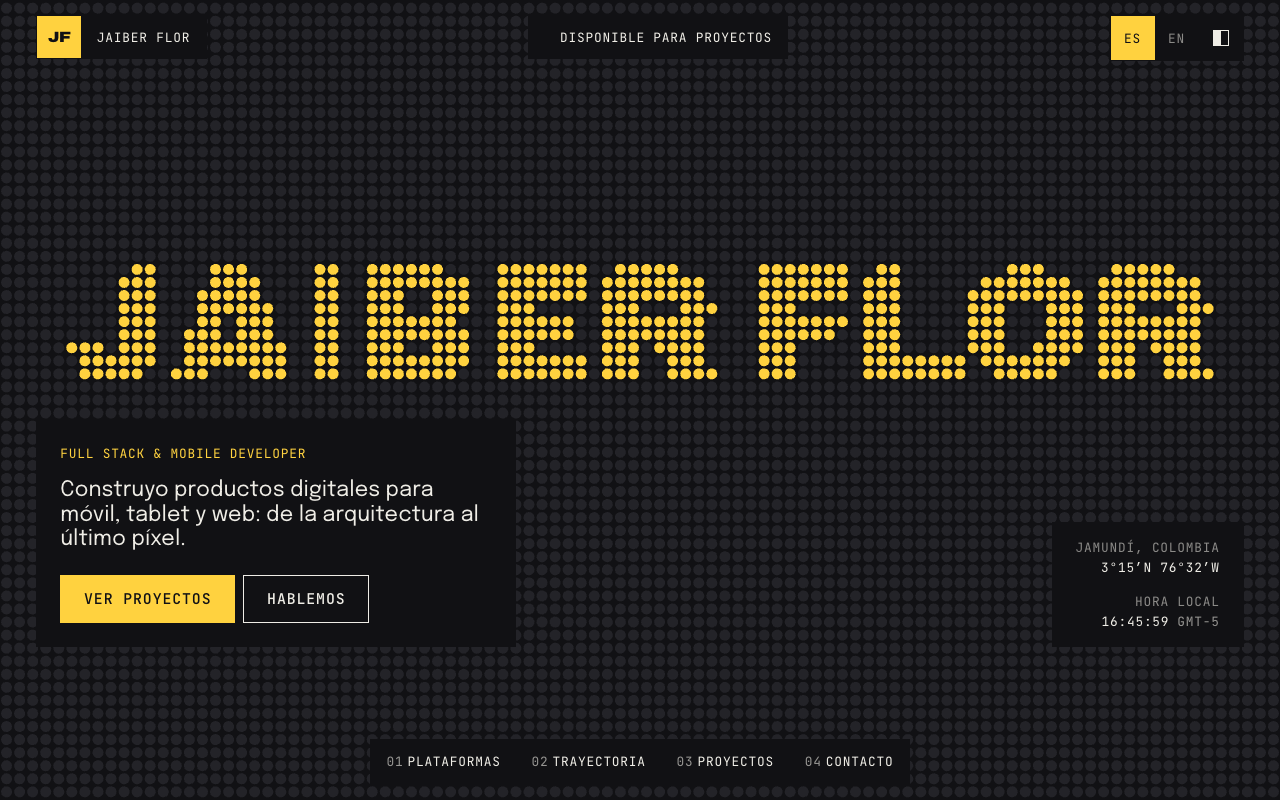
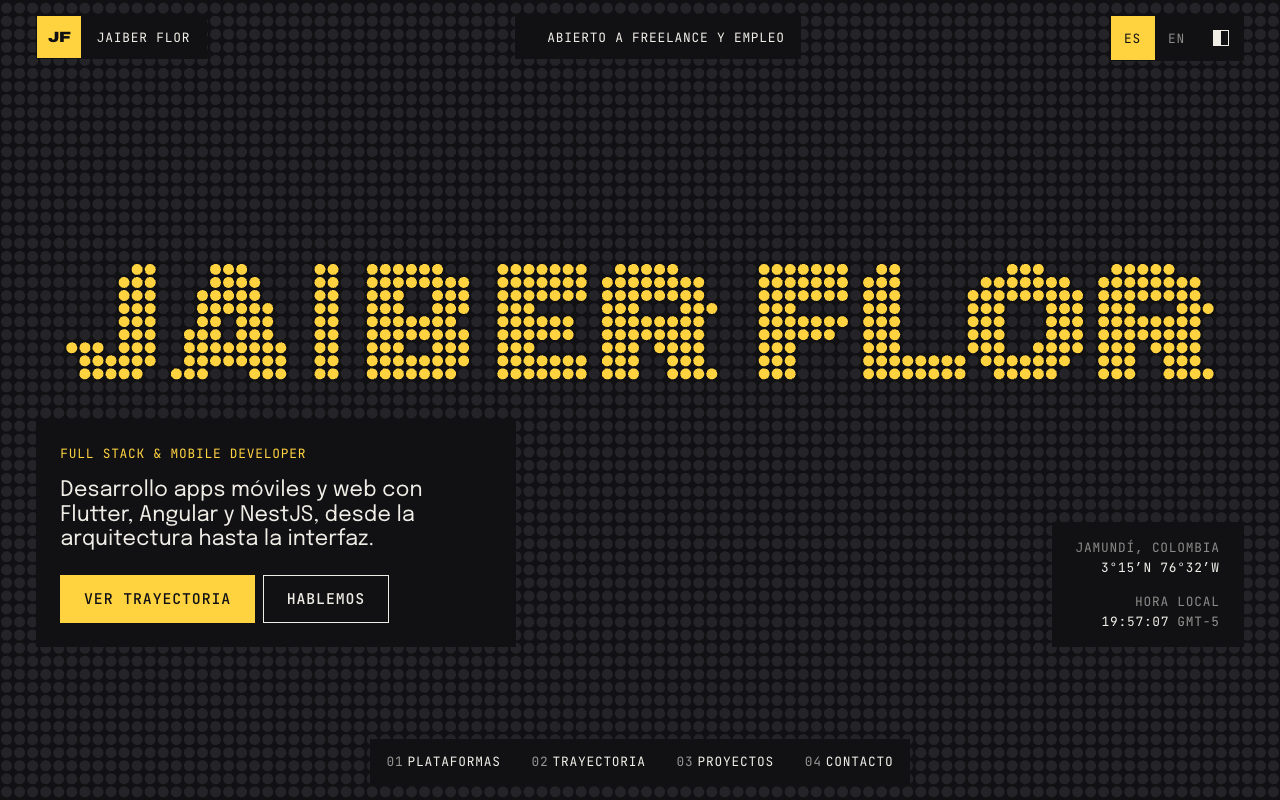
copy: revisión de textos con la skill copy-editing
- Hero, manifiesto, plataformas, trayectoria y contacto reescritos: sin rayas
  ni dos puntos dramáticos, frases de menos de 25 palabras y voz en primera
  persona en todas las tarjetas.
- Posicionamiento en banca y startups, con el sector educativo como origen;
  meta descripción con más de 5 años de experiencia.
- El botón principal del hero lleva a la trayectoria; textos del loader
  acordes al concepto de aeropuerto.
- Proyecto "Este portafolio" con nueva descripción y captura actualizada.

diff --git a/src/i18n/dictionaries/es.ts b/src/i18n/dictionaries/es.ts
@@ -3,7 +3,7 @@ const es = {
   meta: {
     title: 'Jaiber Flor — Full Stack & Mobile Developer',
     description:
-      'Portafolio de Jaiber Flor, desarrollador Full Stack y Mobile en Colombia. Flutter, Angular, NestJS y TypeScript.',
+      'Portafolio de Jaiber Flor, desarrollador Full Stack y Mobile en Colombia con más de 5 años de experiencia en banca, startups y el sector educativo. Flutter, Angular, NestJS y TypeScript.',
   },
   a11y: {
     skipToContent: 'Saltar al contenido',
@@ -31,22 +31,22 @@ const es = {
       'flutter build ios android web',
       'nestjs api ··· ok',
       'angular ··· ok',
-      'calibrando partículas',
-      'señal estable',
+      'calibrando tablero',
+      'embarque abierto',
     ],
   },
   hero: {
     eyebrow: 'Full Stack & Mobile Developer',
     title: 'Jaiber Flor',
-    lead: 'Construyo productos digitales para móvil, tablet y web: de la arquitectura al último píxel.',
-    primaryCta: 'Ver proyectos',
+    lead: 'Desarrollo apps móviles y web para banca y startups con Flutter, Angular y NestJS, desde la arquitectura hasta la interfaz.',
+    primaryCta: 'Ver trayectoria',
     secondaryCta: 'Hablemos',
     scrollHint: 'Desliza',
   },
   manifesto: {
     eyebrow: '00 — Manifiesto',
     // Las palabras entre *asteriscos* se resaltan con el color de la señal.
-    text: 'Antes de escribir código enseñé a *más de mil personas* a usar la tecnología. Hoy diseño la arquitectura de apps que usan *miles*: banca, asambleas virtuales y herramientas que tienen que funcionar en *cualquier pantalla*. Me importa lo que no se ve —pruebas, despliegues, rendimiento— tanto como el *último píxel*.',
+    text: 'Enseñé a *más de 1.000 personas* a usar la tecnología antes de dedicarme a construirla. Hoy desarrollo aplicaciones para *miles de usuarios* en entornos donde *la calidad importa*: banca, startups y experiencias multiplataforma. Escribo código con propósito y cuido *cada etapa*, desde las pruebas hasta el despliegue.',
   },
   platforms: {
     eyebrow: '01 — Plataformas',
@@ -54,15 +54,18 @@ const es = {
     steps: [
       {
         label: 'Móvil',
-        description: 'Apps en Flutter para iOS y Android, con arquitectura modular y pruebas.',
+        description:
+          'Apps en Flutter para iOS y Android, divididas en módulos y con pruebas para crecer sin romperse.',
       },
       {
         label: 'Tablet',
-        description: 'Interfaces adaptativas que aprovechan cada centímetro de pantalla.',
+        description:
+          'La misma app en Flutter reorganiza su interfaz para pantallas grandes, con navegación y columnas pensadas para tablet.',
       },
       {
         label: 'Web',
-        description: 'Aplicaciones en Angular y APIs en NestJS, listas para escalar.',
+        description:
+          'Portales en Angular y APIs en NestJS preparados para miles de usuarios conectados en tiempo real.',
       },
     ],
   },
@@ -99,12 +102,12 @@ const es = {
             suffix: '%+',
             label: 'cobertura de pruebas unitarias',
             detail:
-              'En paquetes reutilizables, para mantener builds estables en un entorno bancario regulado.',
+              'Escribo pruebas para los paquetes que comparten todos los equipos, así cada versión sale estable en un entorno bancario regulado.',
           },
           {
             value: 1000,
             suffix: '+',
-            label: 'descargas en iOS, Android, web y tablet',
+            label: 'descargas de la app del banco',
             detail:
               'Desarrollo funcionalidades de la app del banco, que corre en iOS, Android, web y tablet con un solo código en Flutter. Ahora también construyo herramientas internas para la empresa.',
           },
@@ -121,7 +124,7 @@ const es = {
             suffix: '+',
             label: 'asistentes conectados a la vez',
             detail:
-              'Participé en el desarrollo en Angular de una plataforma de asambleas virtuales e híbridas para copropiedades: video en vivo, quórum y votaciones en tiempo real, con sesiones de 300 a 2.000 asistentes.',
+              'En una startup de tecnología para copropiedades, participé en el desarrollo en Angular de su plataforma de asambleas virtuales e híbridas. Incluye video en vivo, quórum y votaciones en tiempo real para sesiones de 300 a 2.000 asistentes.',
           },
           {
             value: 10,
@@ -129,14 +132,14 @@ const es = {
             suffix: ' min',
             label: 'por despliegue (antes, más de 60)',
             detail:
-              'Automaticé la publicación de las apps Flutter con Fastlane (CI/CD): de más de una hora a 10 minutos por despliegue, más de 15 horas ahorradas al mes y sin costos de servicios externos.',
+              'Automaticé la publicación de las apps Flutter con Fastlane (CI/CD). Cada despliegue pasó de más de una hora a 10 minutos, y el equipo recuperó más de 15 horas al mes sin pagar servicios externos.',
           },
           {
             value: 8000,
             suffix: '+',
             label: 'descargas de la app móvil',
             detail:
-              'Nuevas funcionalidades para la app en Flutter publicada en Google Play y App Store, y las APIs REST que la sostienen con NestJS, MongoDB y PostgreSQL.',
+              'Desarrollé nuevas funcionalidades para la app en Flutter de Google Play y App Store, y las APIs REST que la sostienen con NestJS, MongoDB y PostgreSQL.',
           },
         ],
         stack: ['Angular', 'NestJS', 'Flutter', 'Fastlane', 'MongoDB', 'PostgreSQL'],
@@ -151,20 +154,21 @@ const es = {
             suffix: '+',
             label: 'personas formadas',
             detail:
-              'Talleres en línea sobre herramientas digitales para docentes, creadores de contenido y estudiantes de todo el país.',
+              'En el sector educativo, dicté talleres en línea sobre herramientas digitales a docentes, creadores de contenido y estudiantes de todo el país.',
           },
           {
             value: 100,
             suffix: '+',
             label: 'talleres de programación y robótica',
             detail:
-              'Para niños y jóvenes: primeros pasos en código y STEM, con guías didácticas propias.',
+              'Diseñé talleres para que niños y jóvenes dieran sus primeros pasos en programación y robótica, con guías didácticas propias.',
           },
           {
             value: 10,
             suffix: '+',
             label: 'sitios web y landing pages',
-            detail: 'Con WordPress, Wix, JavaScript, HTML y CSS para docentes y pequeños negocios.',
+            detail:
+              'Construí sitios con WordPress, Wix, JavaScript, HTML y CSS para docentes y pequeños negocios.',
           },
         ],
         stack: ['JavaScript', 'HTML', 'CSS', 'WordPress', 'Wix'],
@@ -197,13 +201,12 @@ const es = {
   contact: {
     eyebrow: '04 — Contacto',
     title: '¿Hablamos?',
-    lead: 'Estoy abierto a nuevos proyectos y oportunidades.',
+    lead: 'He llevado apps a miles de usuarios en banca y en startups, y vengo del sector educativo. Si tu próximo proyecto va por alguno de esos caminos, construyámoslo juntos.',
     copyEmail: 'Copiar correo',
     emailCopied: '¡Correo copiado!',
     qrLabel: 'Escanea → LinkedIn',
   },
   footer: {
-    builtWith: 'Hecho con Astro, Three.js y GSAP',
     backToTop: 'Volver arriba',
   },
 };

diff --git a/src/i18n/dictionaries/en.ts b/src/i18n/dictionaries/en.ts
@@ -4,7 +4,7 @@ const en: Dictionary = {
   meta: {
     title: 'Jaiber Flor — Full Stack & Mobile Developer',
     description:
-      'Portfolio of Jaiber Flor, Full Stack and Mobile developer based in Colombia. Flutter, Angular, NestJS and TypeScript.',
+      'Portfolio of Jaiber Flor, Full Stack and Mobile developer based in Colombia with 5+ years of experience in banking, startups and education. Flutter, Angular, NestJS and TypeScript.',
   },
   a11y: {
     skipToContent: 'Skip to content',
@@ -32,21 +32,21 @@ const en: Dictionary = {
       'flutter build ios android web',
       'nestjs api ··· ok',
       'angular ··· ok',
-      'calibrating particles',
-      'signal stable',
+      'calibrating board',
+      'now boarding',
     ],
   },
   hero: {
     eyebrow: 'Full Stack & Mobile Developer',
     title: 'Jaiber Flor',
-    lead: 'I build digital products for mobile, tablet and web: from the architecture to the last pixel.',
-    primaryCta: 'See projects',
+    lead: 'I build mobile and web apps for banking and startups with Flutter, Angular and NestJS, from the architecture to the interface.',
+    primaryCta: 'See my journey',
     secondaryCta: "Let's talk",
     scrollHint: 'Scroll',
   },
   manifesto: {
     eyebrow: '00 — Manifesto',
-    text: 'Before writing code I taught *over a thousand people* to use technology. Today I architect apps used by *thousands*: banking, virtual assemblies and tools that have to work on *any screen*. I care about what you do not see —tests, releases, performance— as much as the *last pixel*.',
+    text: 'I taught *over 1,000 people* to use technology before I started building it. Today I develop applications for *thousands of users* in environments where *quality matters*: banking, startups and cross-platform experiences. I write code with purpose and take care of *every stage*, from testing to release.',
   },
   platforms: {
     eyebrow: '01 — Platforms',
@@ -54,15 +54,18 @@ const en: Dictionary = {
     steps: [
       {
         label: 'Mobile',
-        description: 'Flutter apps for iOS and Android, with modular architecture and tests.',
+        description:
+          'Flutter apps for iOS and Android, split into modules and tested so they can grow without breaking.',
       },
       {
         label: 'Tablet',
-        description: 'Adaptive interfaces that make the most of every inch of screen.',
+        description:
+          'The same Flutter app rearranges its interface for large screens, with navigation and columns designed for tablets.',
       },
       {
         label: 'Web',
-        description: 'Angular applications and NestJS APIs, ready to scale.',
+        description:
+          'Angular portals and NestJS APIs built for thousands of users connected in real time.',
       },
     ],
   },
@@ -99,12 +102,12 @@ const en: Dictionary = {
             suffix: '%+',
             label: 'unit test coverage',
             detail:
-              'Across reusable packages, keeping production builds stable in a regulated banking environment.',
+              'I write tests for the packages every team shares, so each release ships stable in a regulated banking environment.',
           },
           {
             value: 1000,
             suffix: '+',
-            label: 'downloads on iOS, Android, web and tablet',
+            label: "downloads of the bank's app",
             detail:
               "I build features for the bank's app, which runs on iOS, Android, web and tablet from a single Flutter codebase. I now also build internal tools for the company.",
           },
@@ -121,7 +124,7 @@ const en: Dictionary = {
             suffix: '+',
             label: 'attendees connected at once',
             detail:
-              'Helped build, in Angular, a virtual and hybrid assembly platform for residential communities: live video, real-time quorum and voting, with 300 to 2,000 attendees per session.',
+              'At a startup building technology for residential communities, I helped build its virtual and hybrid assembly platform in Angular. It includes live video, real-time quorum and voting for sessions of 300 to 2,000 attendees.',
           },
           {
             value: 10,
@@ -129,14 +132,14 @@ const en: Dictionary = {
             suffix: ' min',
             label: 'per release (down from 60+)',
             detail:
-              'Automated Flutter app releases with Fastlane (CI/CD): from over an hour to 10 minutes per release, 15+ hours saved monthly and no third-party service costs.',
+              'Automated Flutter app releases with Fastlane (CI/CD). Each release went from over an hour to 10 minutes, and the team got back 15+ hours a month without paying for external services.',
           },
           {
             value: 8000,
             suffix: '+',
             label: 'mobile app downloads',
             detail:
-              'New features for the Flutter app on Google Play and the App Store, and the REST APIs behind it with NestJS, MongoDB and PostgreSQL.',
+              'Built new features for the Flutter app on Google Play and the App Store, and the REST APIs behind it with NestJS, MongoDB and PostgreSQL.',
           },
         ],
         stack: ['Angular', 'NestJS', 'Flutter', 'Fastlane', 'MongoDB', 'PostgreSQL'],
@@ -151,21 +154,21 @@ const en: Dictionary = {
             suffix: '+',
             label: 'people trained',
             detail:
-              'Online workshops on digital tools for teachers, content creators and students nationwide.',
+              'In the education sector, I ran online workshops on digital tools for teachers, content creators and students nationwide.',
           },
           {
             value: 100,
             suffix: '+',
             label: 'programming and robotics workshops',
             detail:
-              'For children and youth: first steps in code and STEM, with my own teaching guides.',
+              'Designed workshops so children and teens could take their first steps in programming and robotics, with my own teaching guides.',
           },
           {
             value: 10,
             suffix: '+',
             label: 'websites and landing pages',
             detail:
-              'Built with WordPress, Wix, JavaScript, HTML and CSS for teachers and small businesses.',
+              'Built sites with WordPress, Wix, JavaScript, HTML and CSS for teachers and small businesses.',
           },
         ],
         stack: ['JavaScript', 'HTML', 'CSS', 'WordPress', 'Wix'],
@@ -202,13 +205,12 @@ const en: Dictionary = {
   contact: {
     eyebrow: '04 — Contact',
     title: "Let's talk",
-    lead: "I'm open to new projects and opportunities.",
+    lead: "I have shipped apps to thousands of users in banking and startups, and I come from the education sector. If your next project is headed down any of those paths, let's build it together.",
     copyEmail: 'Copy email',
     emailCopied: 'Email copied!',
     qrLabel: 'Scan → LinkedIn',
   },
   footer: {
-    builtWith: 'Built with Astro, Three.js and GSAP',
     backToTop: 'Back to top',
   },
 };

diff --git a/src/components/sections/Projects/Projects.ts b/src/components/sections/Projects/Projects.ts
@@ -28,24 +28,27 @@ class ProjectsSection extends HTMLElement {
 
     this.media = gsap.matchMedia(this);
 
-    this.media.add(HORIZONTAL_QUERY, () => {
-      this.classList.add('projects--horizontal');
-      // El padding del carril (CSS) centra el primer y el último pase.
-      const distance = () => track.scrollWidth - window.innerWidth;
-      gsap.to(track, {
-        x: () => -distance(),
-        ease: 'none',
-        scrollTrigger: {
-          trigger: pin,
-          start: 'top top',
-          end: () => `+=${distance()}`,
-          pin: true,
-          scrub: 0.8,
-          invalidateOnRefresh: true,
-        },
+    // Con un solo pase no hay nada que desplazar: se queda centrado, sin fijar la sección.
+    if (tickets.length > 1) {
+      this.media.add(HORIZONTAL_QUERY, () => {
+        this.classList.add('projects--horizontal');
+        // El padding del carril (CSS) centra el primer y el último pase.
+        const distance = () => track.scrollWidth - window.innerWidth;
+        gsap.to(track, {
+          x: () => -distance(),
+          ease: 'none',
+          scrollTrigger: {
+            trigger: pin,
+            start: 'top top',
+            end: () => `+=${distance()}`,
+            pin: true,
+            scrub: 0.8,
+            invalidateOnRefresh: true,
+          },
+        });
+        return () => this.classList.remove('projects--horizontal');
       });
-      return () => this.classList.remove('projects--horizontal');
-    });
+    }
 
     this.media.add(MOTION_QUERY, () => {
       tickets.forEach((ticket) => {

diff --git a/src/content/projects/es/portafolio.md b/src/content/projects/es/portafolio.md
@@ -1,6 +1,6 @@
 ---
 title: Este portafolio
-summary: 'Un aeropuerto en la web: tablero flip-dot en WebGL, letras split-flap y pases de abordar que responden al scroll.'
+summary: 'Tablero flip-dot en WebGL, letras split-flap y pases de abordar que responden al scroll.'
 role: Diseño y desarrollo
 stack: [Astro, Three.js, GLSL, GSAP, Sass]
 year: 2026

diff --git a/src/content/projects/en/portfolio.md b/src/content/projects/en/portfolio.md
@@ -1,6 +1,6 @@
 ---
 title: This portfolio
-summary: 'An airport on the web: WebGL flip-dot board, split-flap letters and boarding passes that react to scroll.'
+summary: 'WebGL flip-dot board, split-flap letters and boarding passes that react to scroll.'
 role: Design & development
 stack: [Astro, Three.js, GLSL, GSAP, Sass]
 year: 2026
